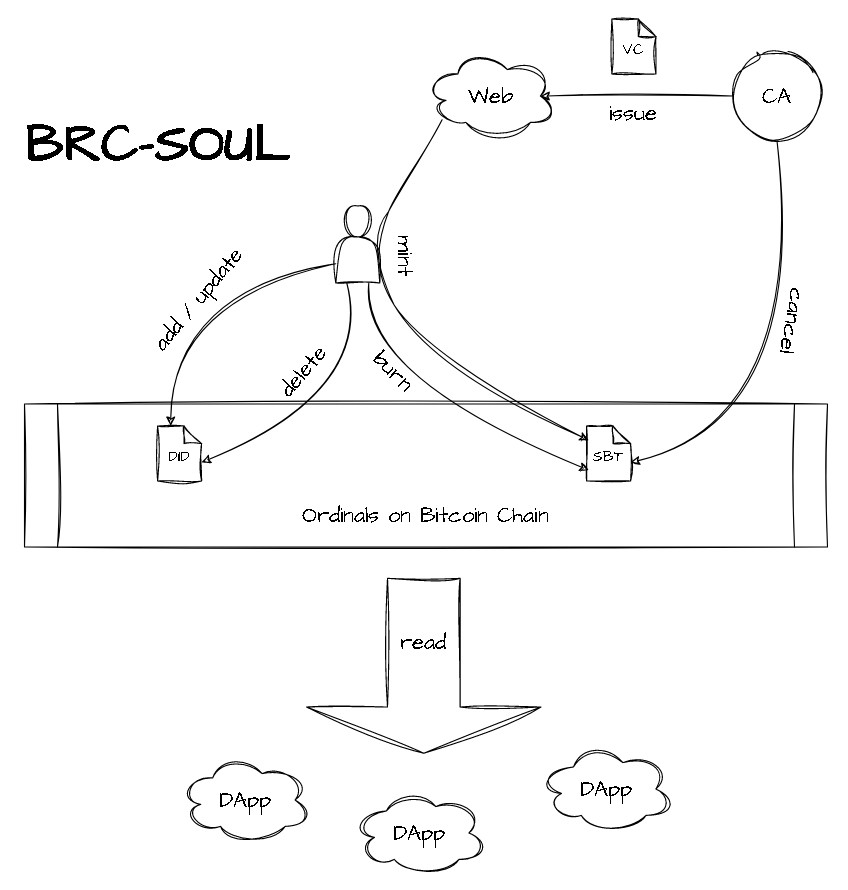
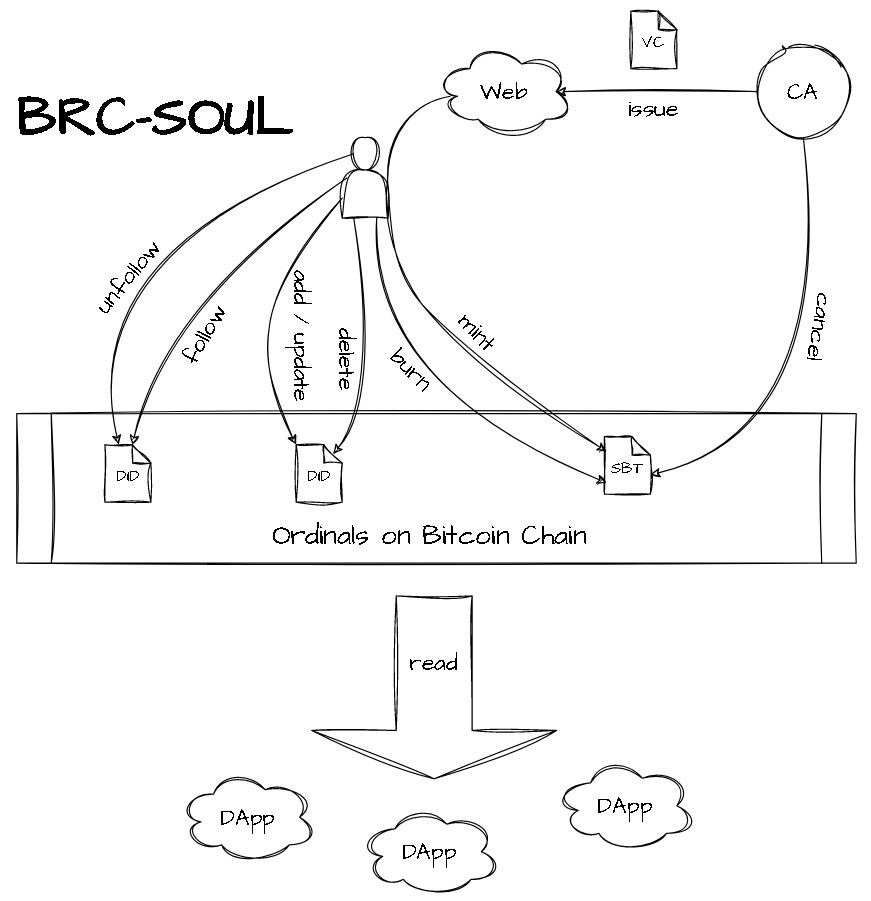
use did instead of address to reduce gas

diff --git a/README.md b/README.md
@@ -80,11 +80,13 @@ Why should use the Bitcoin chain?
 
     {
       "vc": {
-        "vcid": number,                 //VC id, should be identity in the same CA address
-        "addr": "bc1p3lpgz3246uqc87zp8ex7s7q6xka0z9g0djv9n0e2a3gqqlcetl4stwgrqd", //CA address
+        "caid": number,                 //CA did
+        "vcid": number,                 //VC id, should be identity in the same CA did
         "attr": {                       //VC attributes
           "tick": "vc-name",            //VC name, '!' used as reserved character, to allow expanding the protocol
-          "icon": "ordi://53098586",    //optional cv icon, may be stored in ipfs, http, ordi and so on, default is ordi
+          "icon": "ordi://53098586",    //optional VC icon, may be stored in ipfs, http, ordi and so on, default is ordi
+          "todid": number,              //optional only valid on specified did, to avoid multi mint
+          "expire": 1706146997,         //optional expire timestamp seconds from 1970-01-01 00:00:00 UTC
           "level": 5,                   //optional VC level
           "score": 100,                 //optional VC score
           "xuri": "external json"       //optional extended VC attribute, may be stored in ipfs, http, ordi and so on, default is ordi
@@ -116,11 +118,13 @@ cancel should be inscribed to CA's address
       "op": "mint",                     //mint VC option
       "seq": 0,
       "vc": {
+        "caid": number,
         "vcid": number,
-        "addr": "ca-addr",
         "attr": {
           "tick": "vc-name",
           "icon": "ordi://53098586",
+          "todid": number,
+          "expire": 1706146997,
           "level": 5,
           "score": 100,
           "xuri": "external json"
@@ -136,31 +140,31 @@ cancel should be inscribed to CA's address
       "p": "brc-soul",
       "op": "burn",                     //burn VC option
       "seq": 0,
+      "caid": number,
       "vcid": number,
-      "addr": "ca-addr",
       "sign": "xxx"
     }
 
 
 ### Social Network operation
 
-**follow address**
+**follow dids**
 
     {
       "p": "brc-soul",
       "op": "fol",                      //follow option
       "seq": 0,
-      "addrs": ["addr1", "addr2", ..., "addrn"]
+      "dids": [did1, did2, ..., didn]
       "sign": "xxx"
     }
 
-**unfollow address**
+**unfollow dids**
 
     {
       "p": "brc-soul",
       "op": "unfol",                    //unfollow option
       "seq": 0,
-      "addrs": ["addr1", "addr2", ..., "addrn"]
+      "dids": [did1, did2, ..., didn]
       "sign": "xxx"
     }
 
@@ -172,16 +176,18 @@ cancel should be inscribed to CA's address
     "mint"  : user mint the CV as SBT to join the group
     "burn"  : user burn the CV to leave the group
     "cancel": group manager can cancel the CV to remove a member
-    we define "tick" field's "cv-name" that start with "grp!" is a group verification
+    we define "tick" field's "vc-name" that start with "grp!" is a group verification
 
 
 ## Note
+* DID number is allocated at the first time people use "attr" operation of the brc-soul protocol validly, it is start from one, zero used as reserved number.
 * The inscription is only valid to its creator, Once effective, the transferability of inscriptions does not correlate with the inscribed information.
 * The sign must be from the creator, to avoid others' poison.
 * "seq" is not needed continuously but must be increased, to avoid replay attack.
-* "attr" field can be extended by the application itself, but there will be some standard fields.
-* "vcid" must not be duplicated in the same address, but different address can have the same vcid.
-* "ca-addr" and "vcid", together, they ensured the uniqueness of the CV.
-* "vc-name" in the "tick" filed, shouldn't use '!', this is used as reserved character, to allow expanding the protocol
-* "sign" message field should be Sorted alphabetically, then serialized, and remove formatting whitespace.
+* "attr" field can be extended by the application itself, but there should be some standard fields.
+* "caid" is the CA did of CA, so CA should create their DID first before issue VC.
+* "vcid" must not be duplicated in the same CA did, but different CA can have the same vcid.
+* "caid" and "vcid", together, they ensured the uniqueness of the CV.
+* "vc-name" in the "tick" filed, shouldn't use '!', this is used as reserved character, to allow expanding the protocol.
+* "sign" message field should be sorted alphabetically, then serialized, and remove formatting whitespace.
 * "xuri" is optional extended attribute, may be stored in ipfs, http, ordi and so on, default is ordi.
